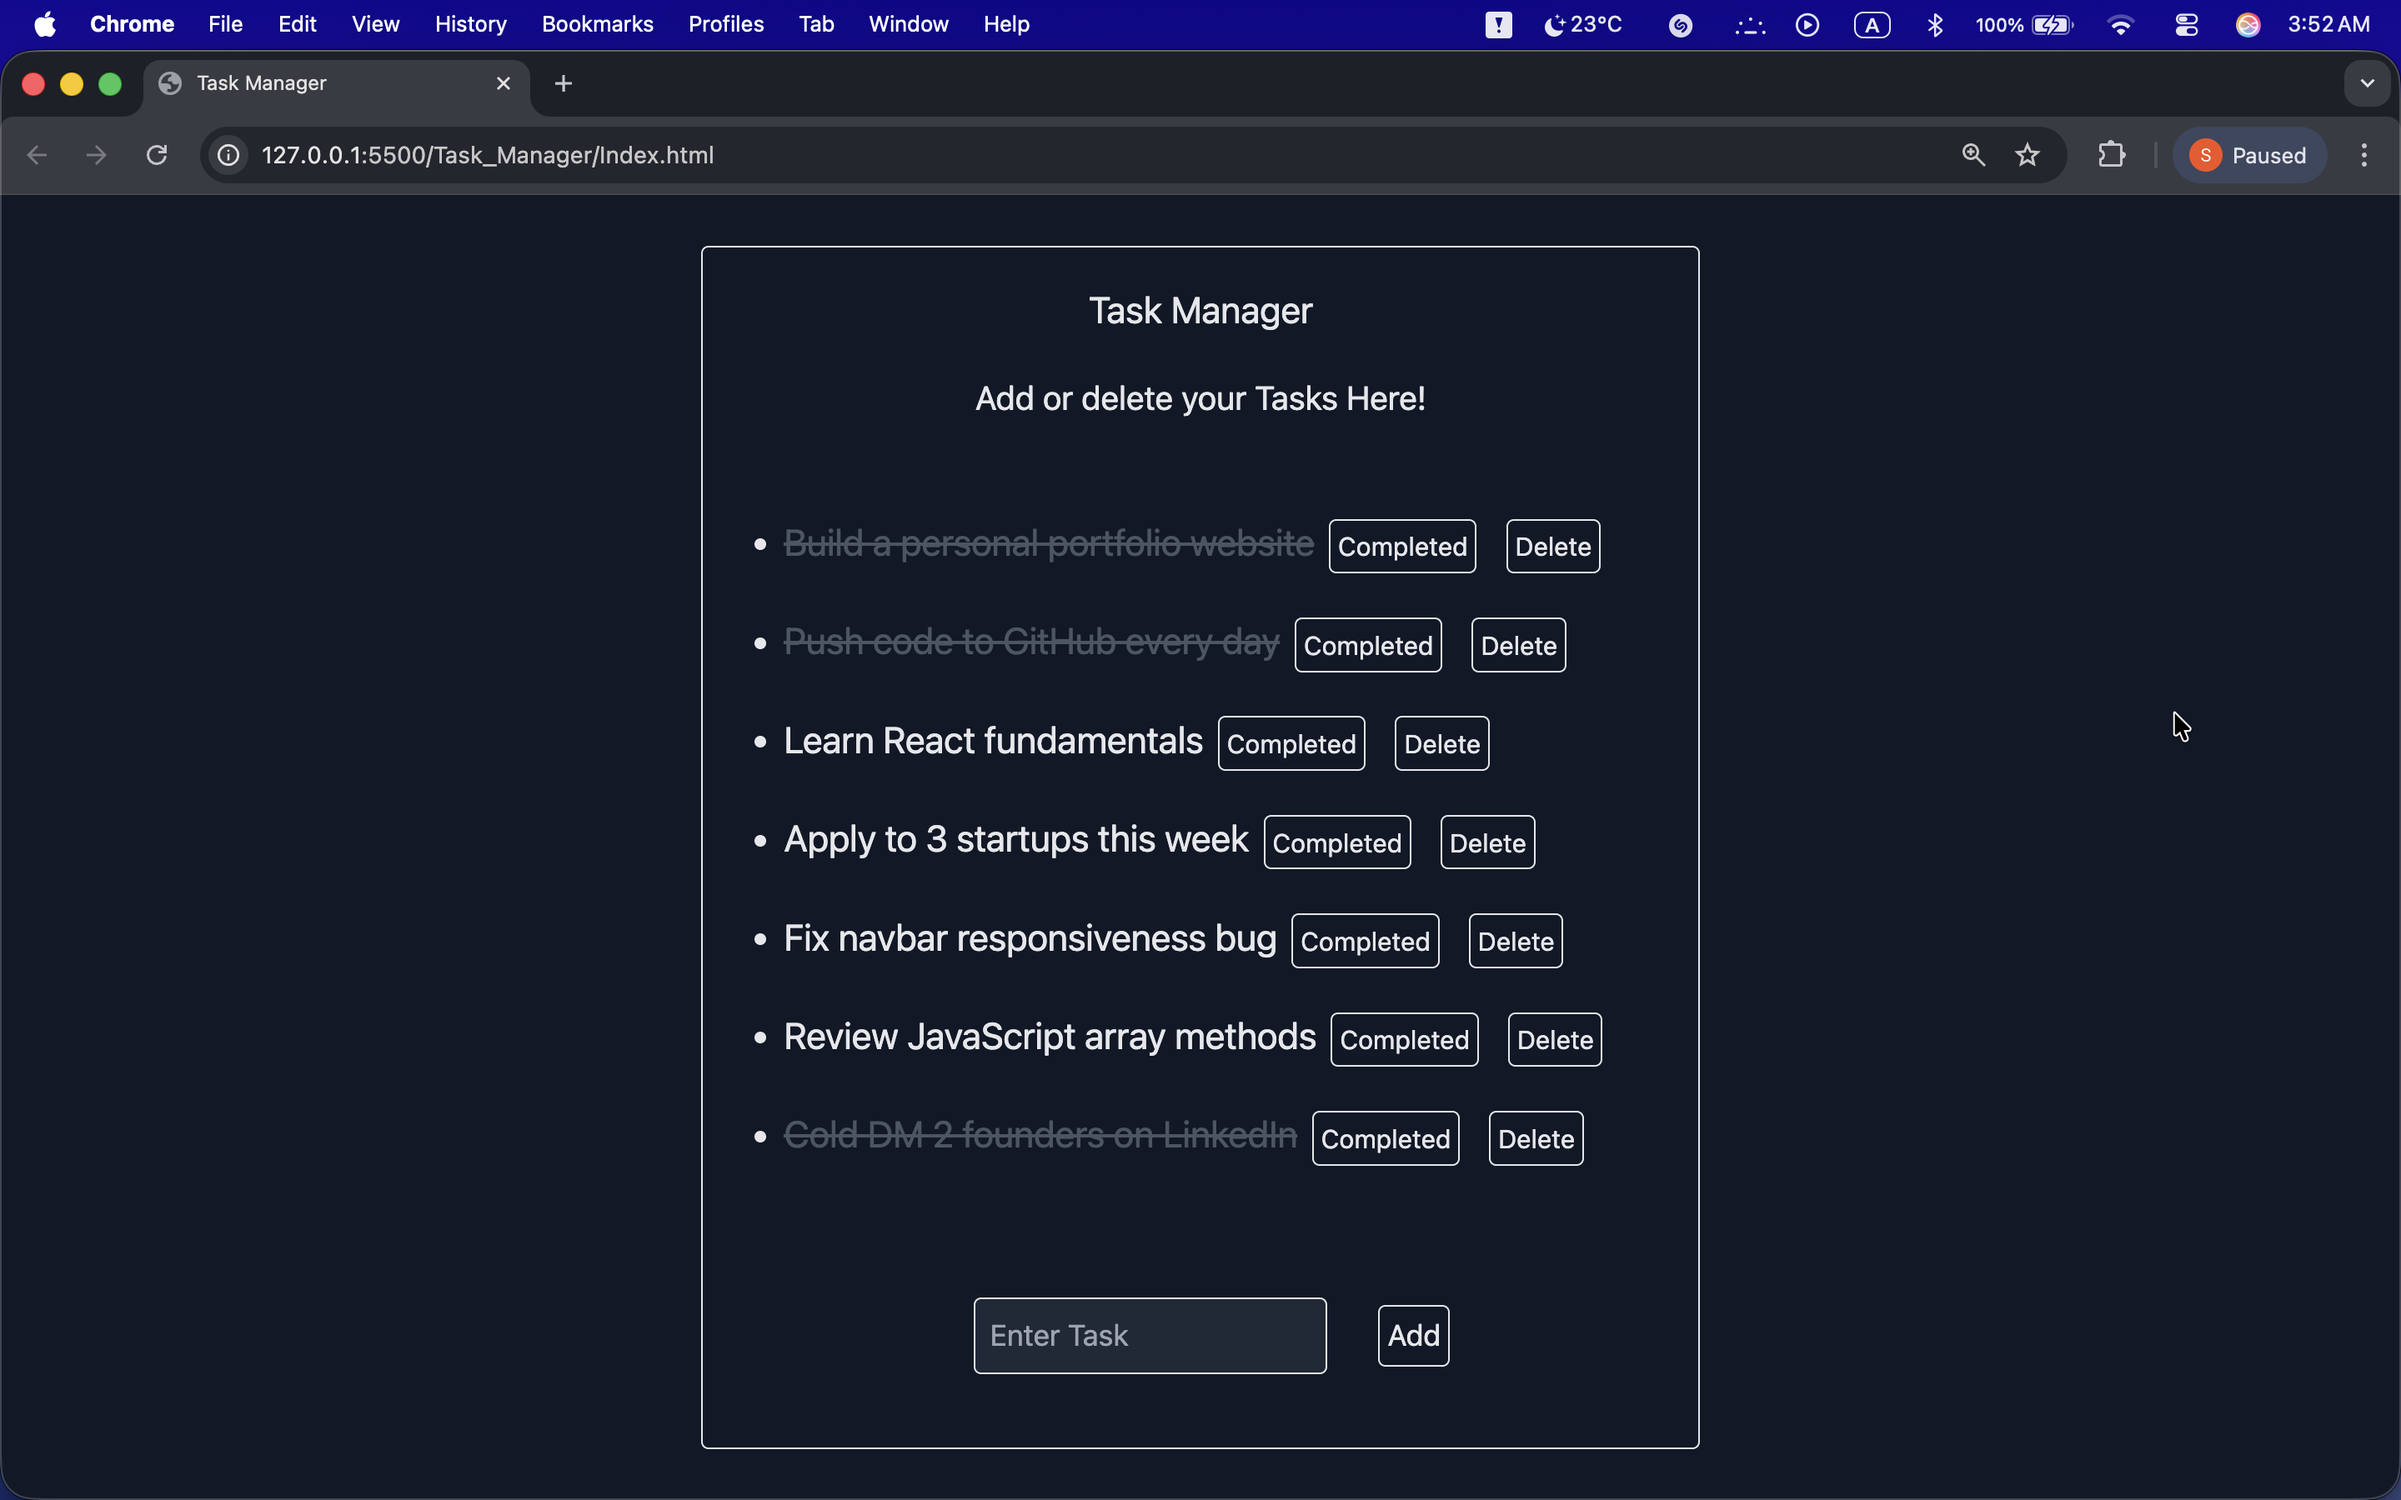
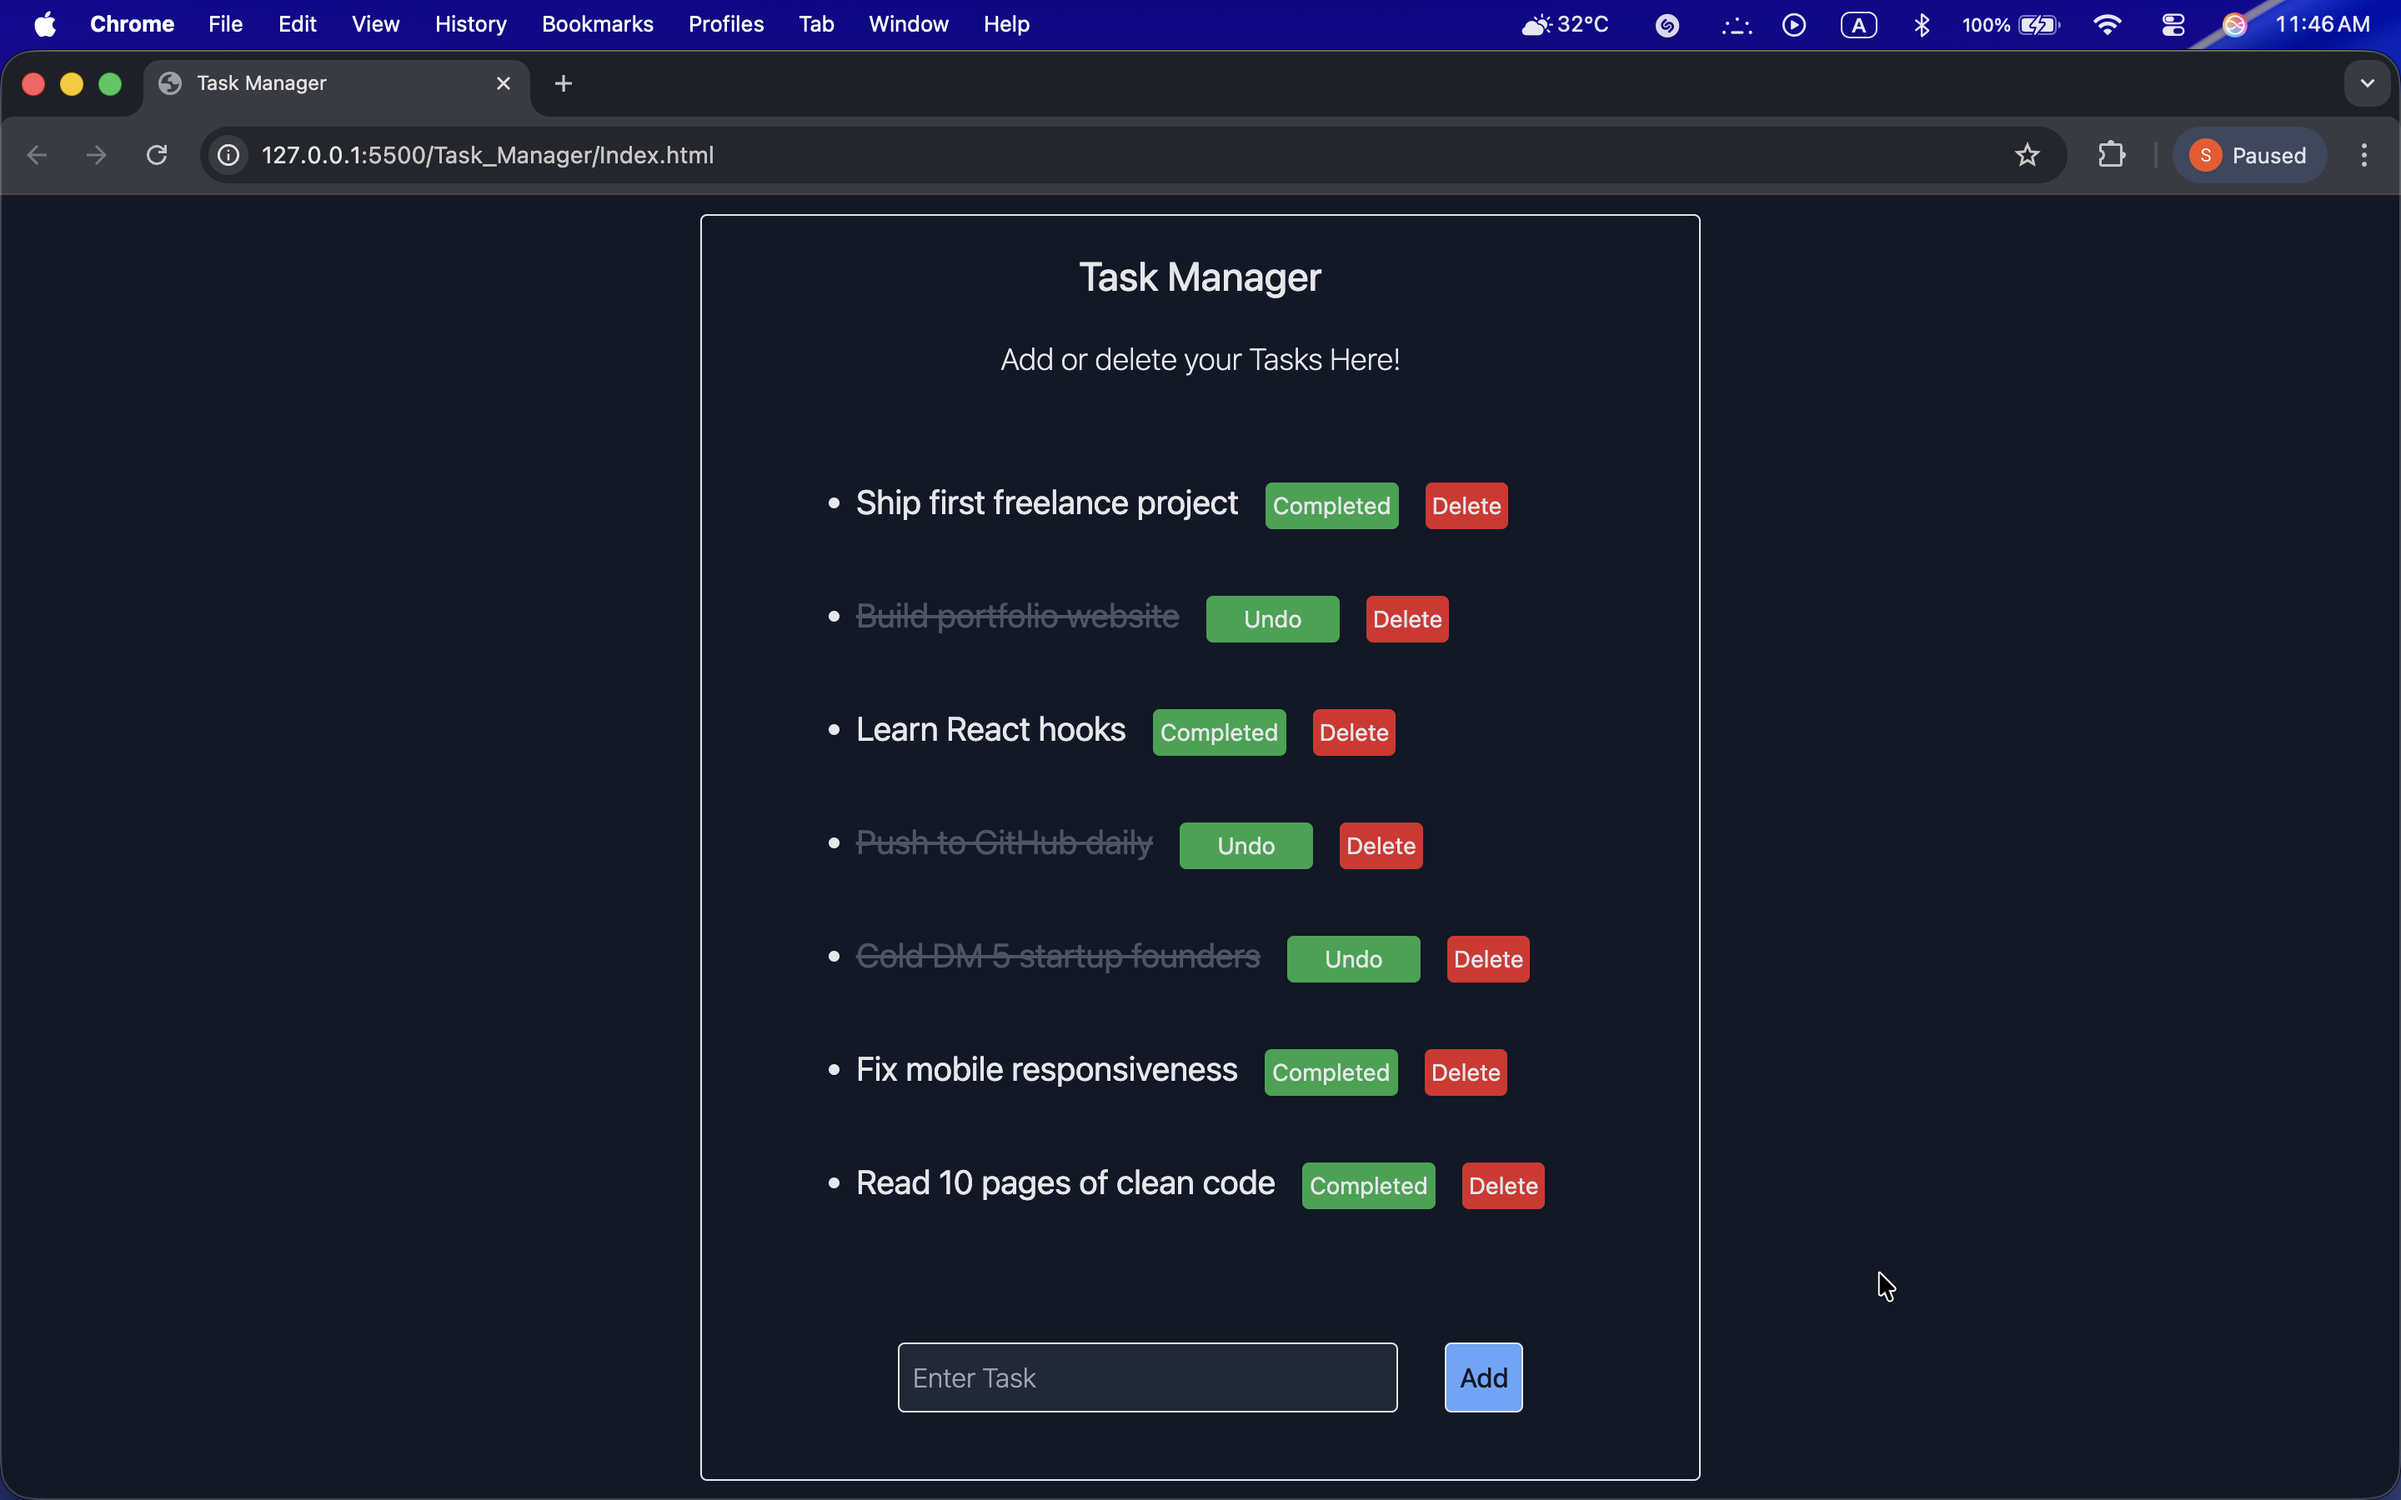
Add undo toggle and improve styling

diff --git a/Index.html b/Index.html
@@ -7,17 +7,17 @@
     <title>Task Manager</title>
 </head>
 <body class="bg-gray-900 min-h-screen flex items-center justify-center text-gray-200">
-    <div class="border flex items-center justify-center rounded">
+    <div class="border flex items-center justify-center rounded w-[600px]">
         
         <div class="">
-            <h1 class="flex items-center justify-center m-5 text-xl">Task Manager</h1>
-            <h2 class="flex items-center justify-center m-5 text-lg">Add or delete your Tasks Here!</h2>
+            <h1 class="flex items-center justify-center m-5 text-2xl font-[450]">Task Manager</h1>
+            <h2 class="flex items-center justify-center m-5 text-lg font-[200]">Add or delete your Tasks Here!</h2>
             <div id="task_list" class="m-7 p-2">
 
             </div>
             <div class="m-5 flex items-center justify-center">
-                <input id="input-area" class="bg-gray-800 border rounded p-2 m-5" for="input" placeholder="Enter Task"></>
-                <button id="addbutton" class="m-2 border rounded p-1">Add</button>
+                <input id="input-area" class="bg-gray-800 border rounded p-2 m-5 w-[300px] font-[250]" for="input" placeholder="Enter Task"></>
+                <button id="addbutton" class="m-2 border rounded p-2 bg-blue-400 text-gray-900 font-[440]">Add</button>
             </div>
             
         </div>

diff --git a/script.js b/script.js
@@ -18,8 +18,8 @@ document.querySelector("#addbutton").addEventListener('click', function () {
     new_button2.textContent = "Delete"
     new_line.appendChild(new_button2)
     
-    new_button1.classList.add("border", "m-2", "p-1", "rounded", "text-sm")
-    new_button2.classList.add("border", "m-2", "p-1", "rounded", "text-sm");
+    new_button1.classList.add("border-black", "m-2", "p-1", "rounded", "text-sm", "bg-green-600", "w-[80px]", "m-4")
+    new_button2.classList.add("border-black", "m-2", "p-1", "rounded", "text-sm", "bg-red-600", "m-0");
     new_line.classList.add("text-xl", "m-2");
     
     new_button2.addEventListener('click', function () {
@@ -28,6 +28,12 @@ document.querySelector("#addbutton").addEventListener('click', function () {
     new_button1.addEventListener('click', function () {
         taskSpan.classList.toggle("line-through")
         taskSpan.classList.toggle("text-gray-600")
+        if (new_button1.textContent === "Completed") {
+            new_button1.textContent = "Undo"
+        }
+        else {
+            new_button1.textContent = "Completed"
+        }
     })
     
     document.querySelector("#input-area").value = ""
